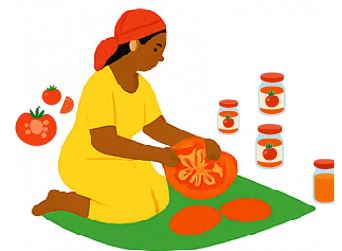
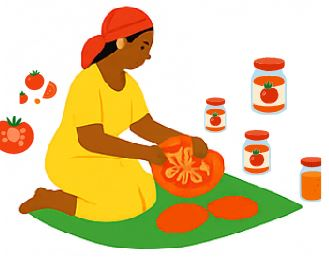
update page d'acceuil

diff --git a/page-cantines-scolaires.html b/page-cantines-scolaires.html
@@ -120,11 +120,6 @@
 
         <!-- II. Section post-diapo avec Iframe -->
         <section class="mb-12 text-center">
-             <!-- Le titre h2 et le paragraphe descriptif ont été retirés car leur contenu est maintenant dans le diaporama -->
-            <span class="inline-block bg-theme-cantines text-white text-sm font-semibold px-3 py-1 rounded-full mb-4">
-                🍽 Cantines Scolaires
-            </span>
-
             <!-- Iframe laissée ici pour une meilleure visibilité et interaction -->
             <div class="my-8 flex justify-center">
                 <iframe allowFullScreen style="border: none;" height="600" width="100%" src=" mviewer/?config=apps/public/cantines/map_cantines.xml"></iframe>
@@ -173,27 +168,26 @@
                             <!-- Carte Vendeuses de rue -->
                             <div class="bg-white p-6 rounded-lg shadow-md border-l-4 border-mode-rouge">
                                 <h4 class="text-xl font-semibold text-gray-800 mb-2">Les vendeuses de rue</h4>
-                                <p class="text-gray-600 text-sm">Présentes autour ou dans l’enceinte des écoles, ces femmes proposent des aliments prêts à consommer... Ce modèle reste informel, mais essentiel dans presque toutes les écoles sans cantine structurée.</p>
+                                <p class="text-gray-600 text-sm">Présentes autour ou dans l’enceinte des écoles, ces femmes proposent des aliments prêts à consommer tels que chips, bonbons, biscuits , jus  et des sandwish (pain + sauce haricot, lentille, petits pois .....) aux élèves. Ce modèle reste informel, mais essentiel dans presque toutes les  écoles sans cantine structurée.</p>
                             </div>
                             <!-- Carte Cantines financées par l’Etat -->
                             <div class="bg-white p-6 rounded-lg shadow-md border-l-4 border-mode-bleu">
                                 <h4 class="text-xl font-semibold text-gray-800 mb-2">Les cantines financées par l’Etat et les partenaires</h4>
-                                <p class="text-gray-600 text-sm">L’évolution du taux de couverture... est erratique... De plus il n’existait quasiment de cantines scolaires dans le département de Rufisque avant la mise en place du PAT.</p>
+                                <p class="text-gray-600 text-sm">L’évolution du taux de couverture des cantines par école au niveau national est erratique. Il est passé de 53% en 2012 à 13% en avril 2025 sur environ 12 000 écoles publiques. Cette baisse est dûe principalement par la fin des partenaires comme le PAM et non repris par l’Etat. De plus il n’existait quasiment de cantines scolaires dans le département de Rufisque avant la mise en place du PAT</p>
                             </div>
                             <!-- Carte Cantines d’écoles autogérées -->
                             <div class="bg-white p-6 rounded-lg shadow-md border-l-4 border-mode-jaune">
                                 <h4 class="text-xl font-semibold text-gray-800 mb-2">Les cantines d’écoles autogérées</h4>
-                                <p class="text-gray-600 text-sm">Certaines écoles ont mis en place leurs propres cantines... Ces cantines autogérées représentent une part significative des initiatives locales...</p>
+                                <p class="text-gray-600 text-sm">Certaines écoles ont mis en place leurs propres cantines, parfois avec l’appui des parents d’élèves ou d’associations. Elles fonctionnent avec des cuisinières bénévoles et ou avec une motivation symbolique et selon les capacités d’organisation et de financement. Ces cantines autogérées représentent une part significative des initiatives locales, bien que leur pérennité dépende fortement de l'engagement communautaire et des ressources disponibles.</p>
                             </div>
                             <!-- Carte Cuisines centrales en circuit court -->
                             <div class="bg-white p-6 rounded-lg shadow-md border-l-4 border-mode-vert">
                                 <h4 class="text-xl font-semibold text-gray-800 mb-2">Les cuisines centrales en circuit court</h4>
-                                <p class="text-gray-600 text-sm">Mise en œuvre dans le cadre du PAT... ce modèle vise une institutionnalisation... Les 4 cuisines centrales... s'approvisionnent en produits frais et locaux...</p>
+                                <p class="text-gray-600 text-sm">Mise en œuvre dans le cadre du Plan Alimentaire Territorial (PAT) avec l’appui du projet AMOPAR, ce modèle vise une institutionnalisation et l’implication des collectivités territoriales dans la gestion et le financement et une professionnalisation de l’alimentation scolaire. Les 4 cuisines centrales mise en place dans le département préparent en amont des repas sains et équilibrés, livrés quotidiennement à 22  écoles. Elles s'approvisionnent en produits frais et locaux issus des zones agricoles voisines auprès de 4 groupements maraichères de légumes, 15 GIE de femmes transformatrices de céréales locales, 8 producteurs avicoles, 2 GIE mareyeurs et 4 commeçants,</p>
                             </div>
                         </div>
                          <p class="mt-4 text-sm text-gray-600 italic">
-                            Le rapport Gohin (2023) met en évidence que le modèle de cuisine centrale, approvisionnée en circuits court... offre des avantages en termes d'efficacité, de qualité nutritionnelle et de soutien à l'économie locale...
-                        </p>
+                            Le rapport Gohin (2023) met en évidence que le modèle de cuisine centrale, approvisionnée en circuits court, bien que nécessitant des investissements initiaux plus importants, offre des avantages en termes d'efficacité, de qualité nutritionnelle et de soutien à l'économie locale. En particulier, il favorise l'emploi local, notamment féminin, en structurant les filières de production et de transformation alimentaires.</p>
                     </section>
                 </div>
 

diff --git a/partials/accueil.html b/partials/accueil.html
@@ -1,23 +1,31 @@
-<section id="accueil" class="text-gray-900 py-20 px-4 sm:px-6 lg:px-8 min-h-[80vh] flex items-center">
-    <div class="container mx-auto flex flex-col md:flex-row items-center md:text-left">
-        <div class="w-full md:w-5/12 mb-8 md:mb-0 md:pr-8 text-center md:text-left">
-            <h1 class="text-4xl sm:text-5xl font-bold mb-5 leading-tight">{{accueil.titre}}</h1>
-            <p class="text-lg sm:text-xl opacity-90 mb-8 max-w-3xl mx-auto md:mx-0">{{accueil.description}}</p>
-            <div class="space-y-4 sm:space-y-0 sm:space-x-4">
-                <a href="#axes" class="inline-block btn-hero-primary text-white font-bold py-3 px-6 rounded-md shadow-md hover:shadow-lg transition-transform duration-200 transform hover:-translate-y-0.5 text-base">{{accueil.bouton_primaire}}</a>
-                <a href="#actions" class="inline-block btn-hero-primary text-white font-bold py-3 px-6 rounded-md shadow-md hover:shadow-lg transition-transform duration-200 transform hover:-translate-y-0.5 text-base">{{accueil.bouton_secondaire}}</a>
+<section id="accueil" class="bg-white text-gray-800 py-24 px-4 sm:px-6 lg:px-8 flex items-center">
+    <div class="container mx-auto grid grid-cols-1 md:grid-cols-5 gap-12 items-start">
+        
+        <!-- Colonne Texte -->
+        <div class="text-center md:text-left md:col-span-2">
+            <h1 class="text-4xl lg:text-5xl font-extrabold mb-6 leading-tight text-gray-900">
+                {{accueil.titre_prefix}} <span class="text-pat-green-principal">{{accueil.titre_highlight}}</span>
+            </h1>
+            <p class="text-lg text-gray-600 mb-8 leading-relaxed">{{accueil.description}}</p>
+            <div class="flex flex-col sm:flex-row gap-4 justify-center">
+                <a href="#actions" class="inline-block btn-hero-primary text-white font-bold py-3 px-8 rounded-lg shadow-lg hover:shadow-xl transition-all duration-300 transform hover:-translate-y-1 text-base">{{accueil.bouton_secondaire}}</a>
+                <a href="#axes" class="inline-block text-pat-green-darker border-2 border-pat-green-darker font-bold py-3 px-8 rounded-lg shadow-lg hover:bg-pat-green-darker hover:text-white transition-all duration-300 transform hover:-translate-y-1 text-base">{{accueil.bouton_primaire}}</a>
             </div>
         </div>
-        <div class="w-full md:w-7/12">
-            <div id="video-container" class="bg-black bg-opacity-10 p-3 sm:p-5 rounded-lg shadow-xl aspect-video">
-                <div id="video-facade" class="relative w-full h-full bg-cover bg-center rounded-md cursor-pointer group" style="background-image: url('{{accueil.video_thumbnail}}');" data-videoid="{{accueil.video_id}}">
-                    <div class="absolute inset-0 flex items-center justify-center bg-black bg-opacity-30 group-hover:bg-opacity-50 transition-all duration-300 rounded-md">
-                        <svg class="w-16 h-16 sm:w-20 sm:h-20 text-white transform group-hover:scale-110 transition-transform duration-300 drop-shadow-lg" xmlns="http://www.w3.org/2000/svg" viewBox="0 0 24 24" fill="currentColor">
+
+        <!-- Colonne Vidéo -->
+        <div class="w-full h-full md:col-span-3">
+            <div id="video-container" class="shadow-2xl rounded-xl overflow-hidden h-full">
+                <div id="video-facade" class="relative w-full h-full bg-cover bg-center cursor-pointer group" style="background-image: url('{{accueil.video_thumbnail}}');" data-videoid="{{accueil.video_id}}">
+                    <div class="absolute inset-0 flex items-center justify-center bg-black bg-opacity-40 group-hover:bg-opacity-50 transition-all duration-300">
+                        <!-- Bouton Play simple -->
+                        <svg class="w-20 h-20 text-white transform group-hover:scale-110 transition-transform duration-300 drop-shadow-lg" xmlns="http://www.w3.org/2000/svg" viewBox="0 0 24 24" fill="currentColor">
                             <path d="M8 5v14l11-7z"></path>
                         </svg>
                     </div>
                 </div>
             </div>
         </div>
+
     </div>
 </section>

diff --git a/js/main-builder.js b/js/main-builder.js
@@ -50,24 +50,32 @@ async function buildHomePage() {
             return value !== undefined && value !== null ? value : '';
         });
 
-        mainContainer.innerHTML += render(accueilTpl, contenu);
+        let mainHtml = render(accueilTpl, contenu);
+
+        // Section Actions
+        let actionsItemsHtml = '';
+        contenu.actions_concretes.actions.forEach(action => { actionsItemsHtml += render(actionItemTpl, action); });
+        mainHtml += render(actionsSectionTpl, contenu);
+
+        // Section Axes
         let axesItemsHtml = '';
         contenu.axes_strategiques.axes.forEach((axe, index) => {
             const axeData = { ...axe, image_column_order_class: index % 2 === 1 ? 'md:order-last' : '' };
             axesItemsHtml += render(axeItemTpl, axeData);
         });
-        const axesSectionRendered = render(axesSectionTpl, contenu);
-        mainContainer.innerHTML += axesSectionRendered;
-        document.getElementById('axes-items-container').innerHTML = axesItemsHtml;
-        let actionsItemsHtml = '';
-        contenu.actions_concretes.actions.forEach(action => { actionsItemsHtml += render(actionItemTpl, action); });
-        const actionsSectionRendered = render(actionsSectionTpl, contenu);
-        mainContainer.innerHTML += actionsSectionRendered;
-        document.getElementById('actions-items-container').innerHTML = actionsItemsHtml;
+        mainHtml += render(axesSectionTpl, contenu);
+
+        // Section Alliance
         let allianceActeursHtml = '';
         contenu.alliance.acteurs_liste.forEach(acteur => { allianceActeursHtml += render(allianceActeurItemTpl, acteur); });
-        const allianceSectionRendered = render(allianceTpl, contenu);
-        mainContainer.innerHTML += allianceSectionRendered;
+        mainHtml += render(allianceTpl, contenu);
+
+        // Injection unique dans le DOM pour le contenu principal
+        mainContainer.innerHTML = mainHtml;
+
+        // Remplissage des conteneurs d'items maintenant qu'ils sont dans le DOM
+        document.getElementById('axes-items-container').innerHTML = axesItemsHtml;
+        document.getElementById('actions-items-container').innerHTML = actionsItemsHtml;
         document.getElementById('alliance-acteurs-list').innerHTML = allianceActeursHtml;
         footerContainer.innerHTML = render(footerTpl, contenu);
         initVideoFacade();

diff --git a/page-systemes-alimentaires-durables.html b/page-systemes-alimentaires-durables.html
@@ -114,10 +114,7 @@
 
         <!-- II. Section post-diapo avec Iframe -->
         <section class="mb-12 text-center">
-             <!-- Le titre h2 et le paragraphe descriptif ont été retirés car leur contenu est maintenant dans le diaporama -->
-            <span class="inline-block bg-theme-sad text-white text-sm font-semibold px-3 py-1 rounded-full mb-4">
-                🌿 Systèmes Alimentaires Durables
-            </span>
+
             
             <!-- Iframe laissée ici pour une meilleure visibilité et interaction -->
             <div class="my-8 flex justify-center">

diff --git a/partials/actions.html b/partials/actions.html
@@ -1,4 +1,4 @@
-<section id="actions" class="py-16 px-4 sm:px-6 lg:px-8 bg-white">
+<section id="actions" class="py-16 px-4 sm:px-6 lg:px-8 bg-section-alt">
     <div class="container mx-auto">
         <h2 class="text-3xl font-bold text-gray-900 mb-4 text-center">{{actions_concretes.titre}}</h2>
         <p class="text-lg text-gray-600 mb-12 max-w-3xl mx-auto text-center">{{actions_concretes.description}}</p>
@@ -13,4 +13,3 @@
         </div>
     </div>
 </section>
-

diff --git a/partials/axes.html b/partials/axes.html
@@ -1,4 +1,4 @@
-<section id="axes" class="py-16 px-4 sm:px-6 lg:px-8 bg-section-alt">
+<section id="axes" class="py-16 px-4 sm:px-6 lg:px-8 bg-white">
     <div class="container mx-auto">
         <h2 class="text-3xl font-bold text-gray-900 mb-4 text-center">{{axes_strategiques.titre}}</h2>
         <p class="text-lg text-gray-600 mb-12 max-w-3xl mx-auto text-center">{{axes_strategiques.description}}</p>
@@ -8,4 +8,3 @@
         </div>
     </div>
 </section>
-
